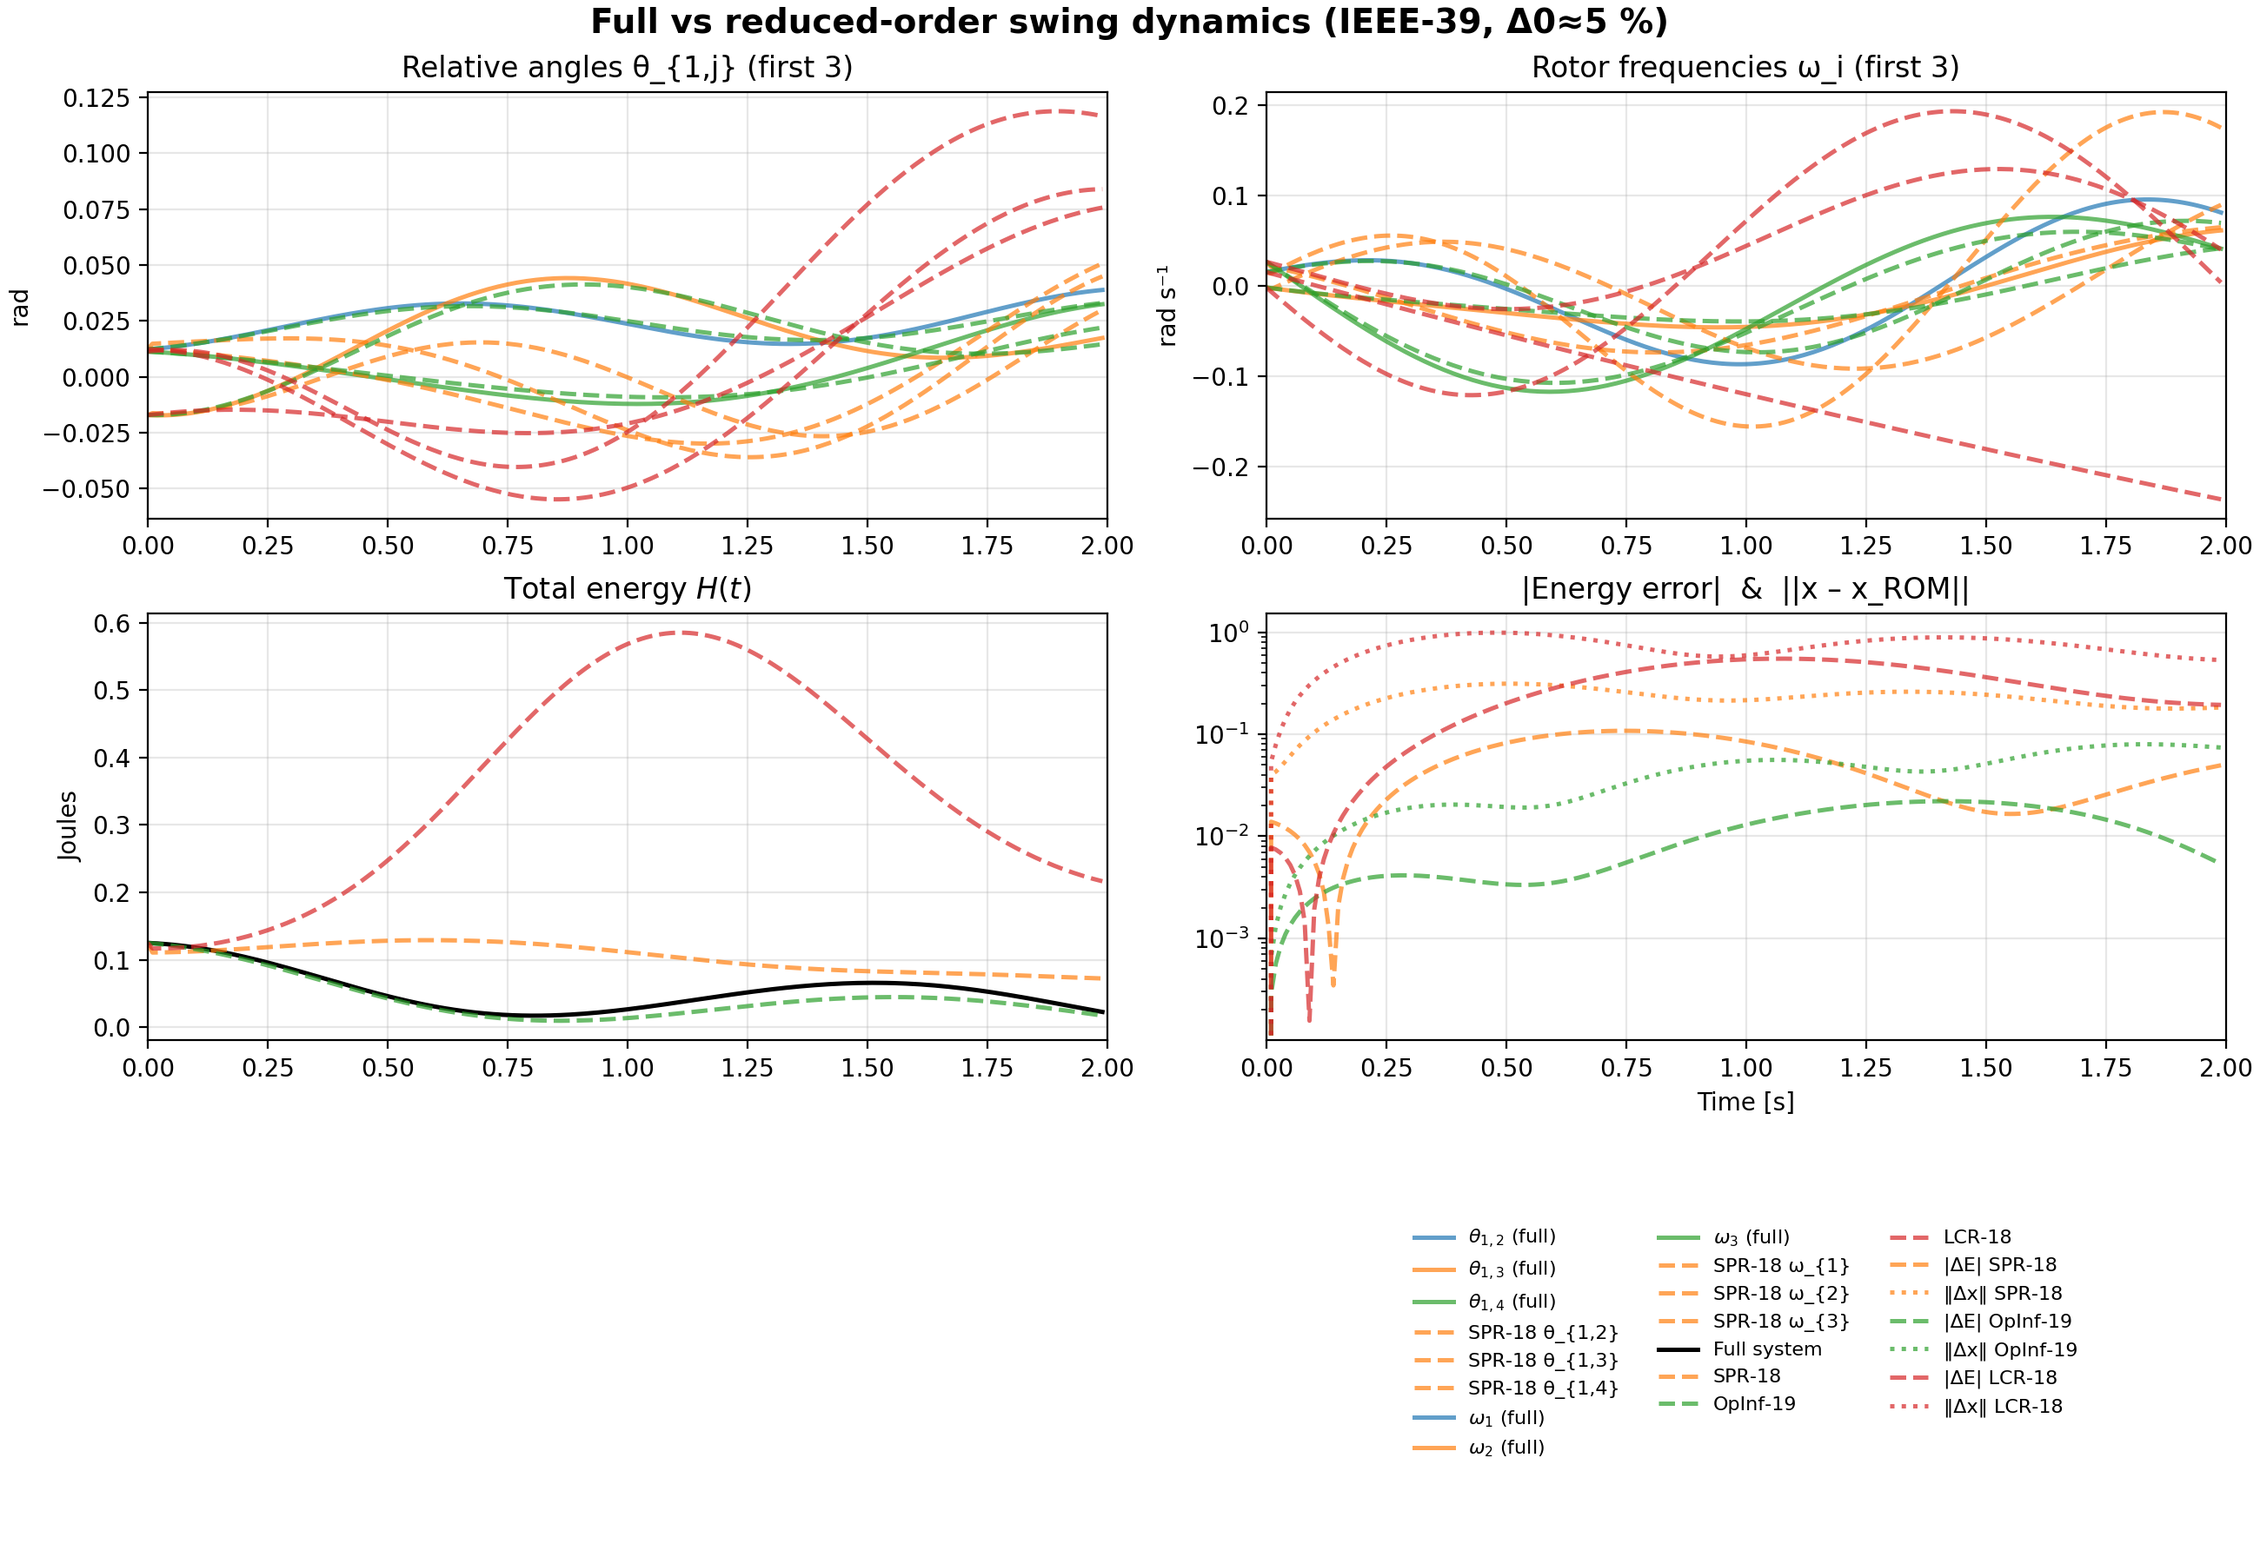
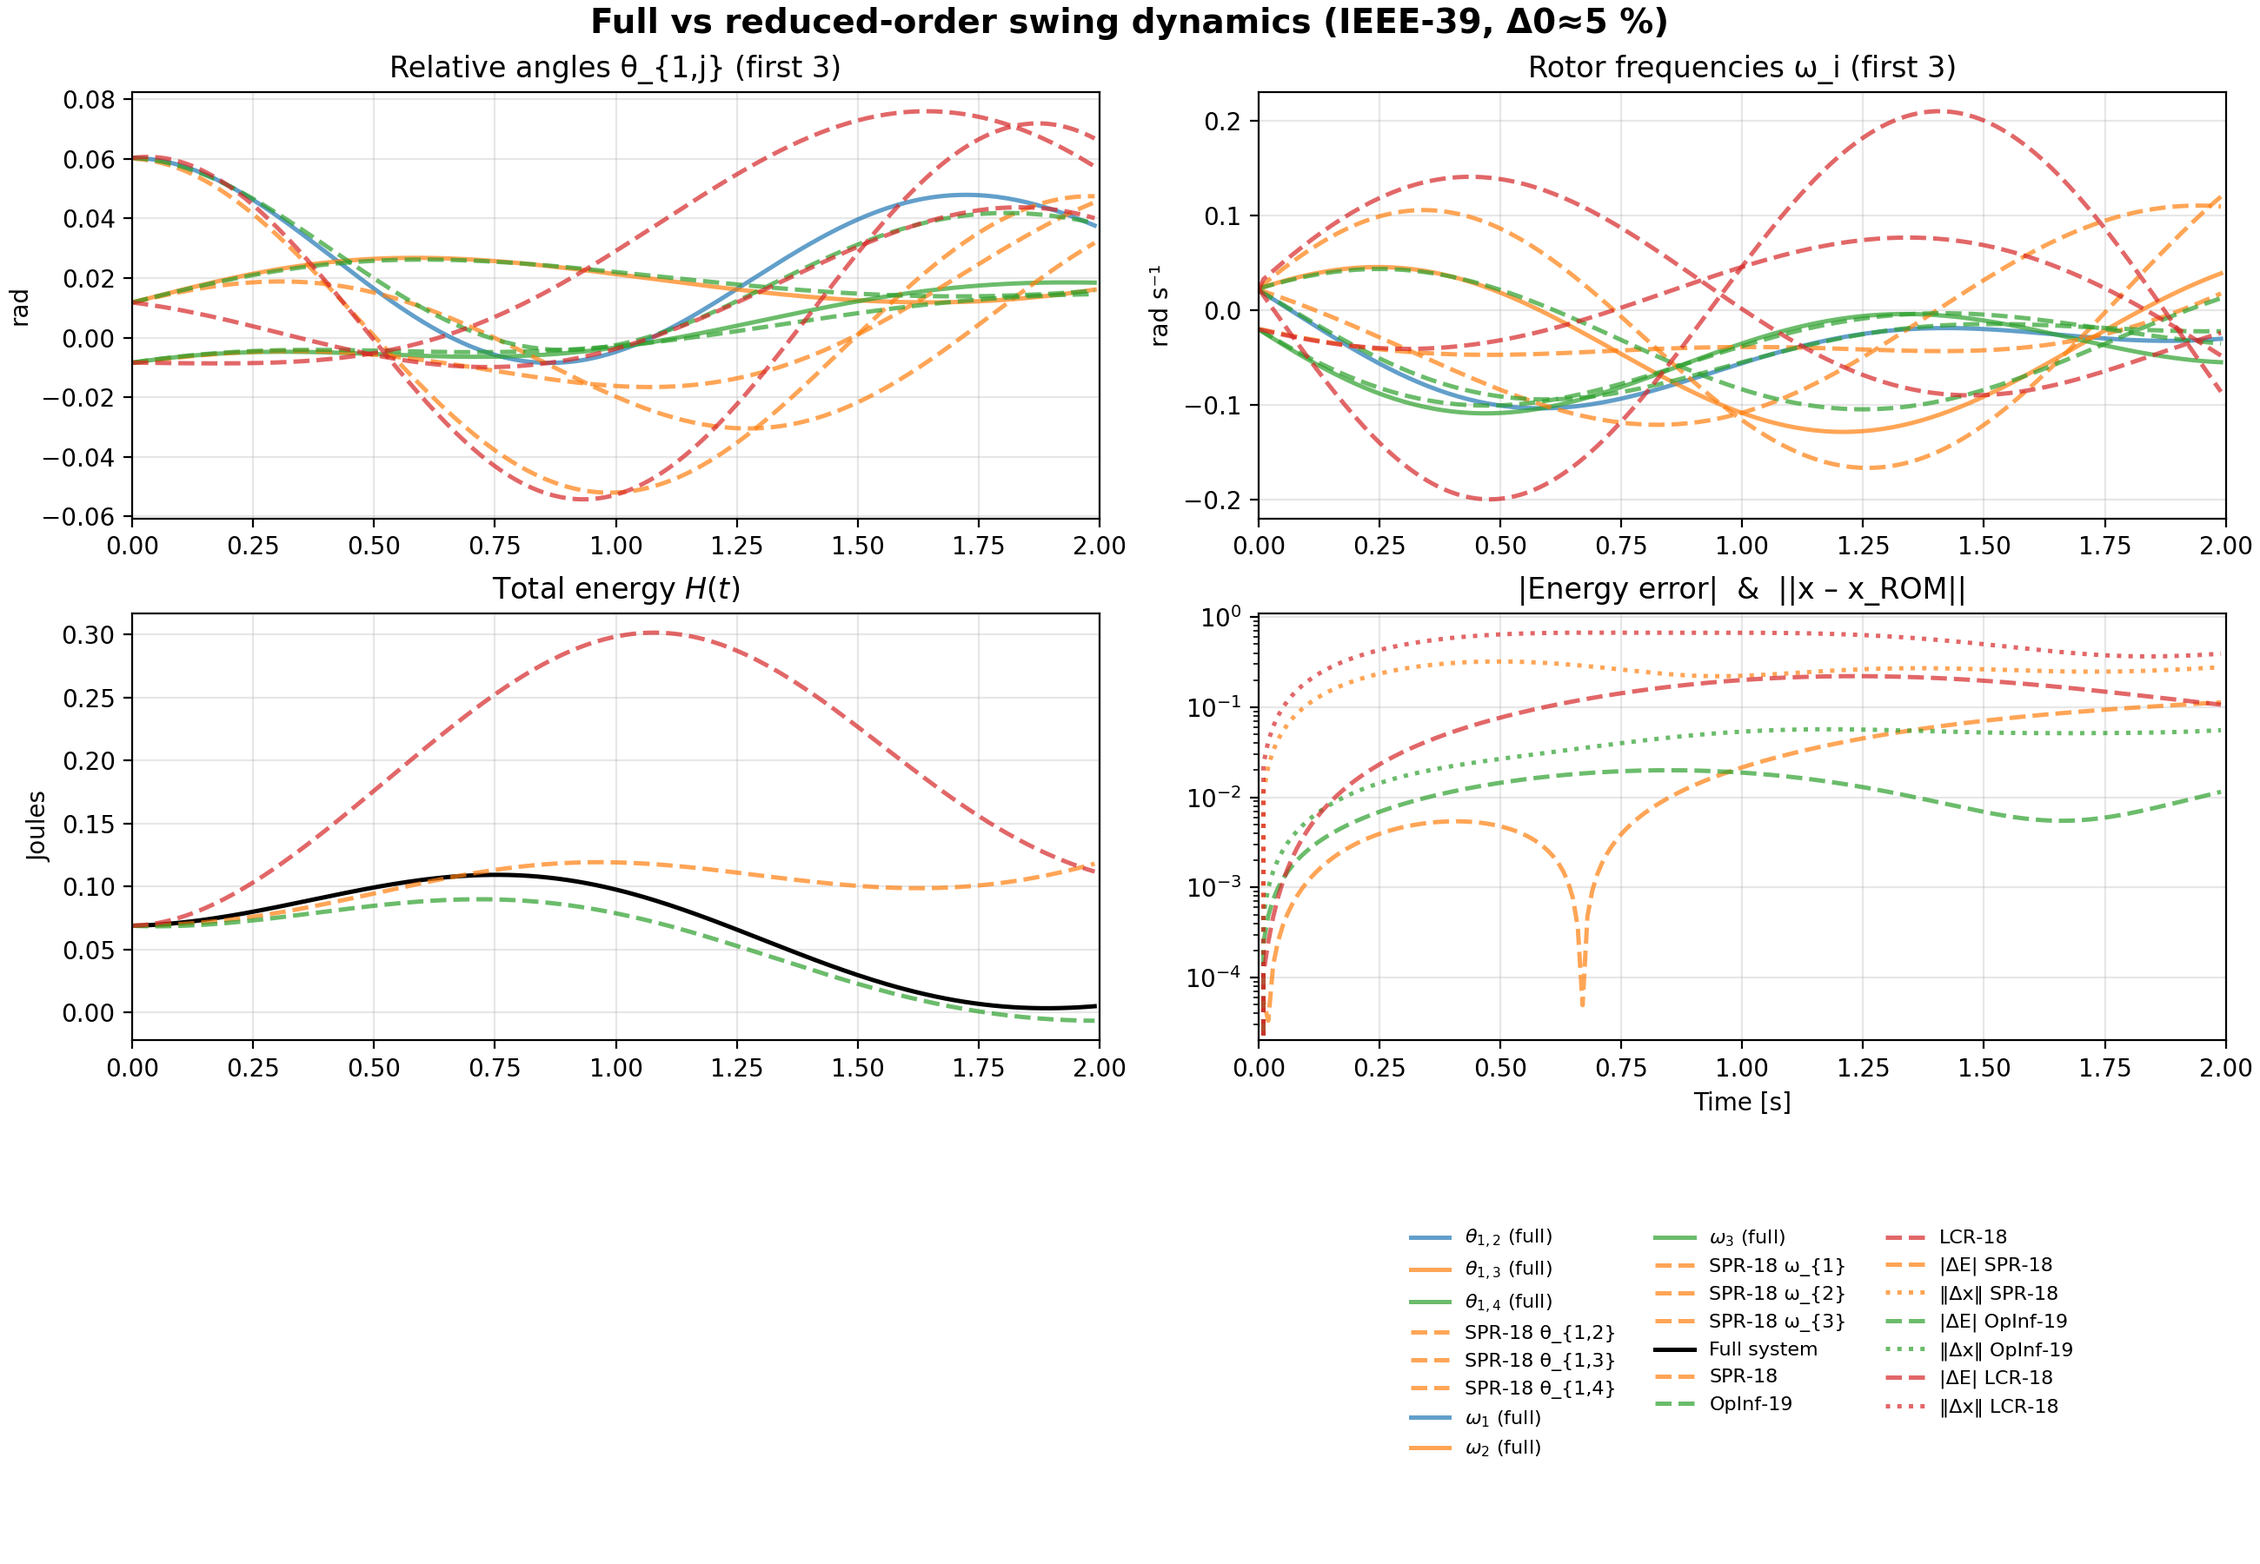
fix

diff --git a/neural_clbf/retain_freq.py b/neural_clbf/retain_freq.py
@@ -668,11 +668,6 @@ def test_trajectory_preservation():
             traj = rollout_rom(reducer, sys, x0_plot.unsqueeze(0), int(T_horizon/dt), dt=dt)
         
         t = np.arange(traj.shape[1]) * dt
-        fig = plot_comparison(sys,
-                            {"SPR‑18": spr, "OpInf‑19": opinf, "LCR‑18": lcr},
-                            x0_plot, T_horizon, dt)
-        fig.savefig("trajectory_comparison.png", dpi=200)
-        print("Saved clearer figure to trajectory_comparison.png")
 
         
         # Plot energy error (if not full system)
@@ -705,7 +700,42 @@ def test_trajectory_preservation():
     plt.tight_layout()
     plt.savefig('full_dimension_trajectories.png', dpi=150)
     print("\nTrajectory plots saved to 'full_dimension_trajectories.png'")
-    
+
+    plt.close()
+    print("\nTrajectory plots saved to 'full_dimension_trajectories.png'")
+
+    # Now create the comparison plots with unique filenames
+    print("\nGenerating comparison visualizations...")
+
+    # 1. Summary plot (2x2 clearer visualization)
+    fig_summary = plot_summary_comparison(sys,
+                        {"SPR-18": spr if 'spr' in locals() else None, 
+                        "OpInf-19": opinf if 'opinf' in locals() else None, 
+                        "LCR-18": lcr if 'lcr' in locals() else None},
+                        x0_plot, T_horizon, dt)
+    fig_summary.savefig("comparison_summary.png", dpi=150, bbox_inches='tight')
+    plt.close(fig_summary)
+    print("Saved summary plot to 'comparison_summary.png'")
+
+    # 2. Detailed comparison plot
+    fig_comp = plot_comparison(sys,
+                        {"SPR-18": spr if 'spr' in locals() else None, 
+                        "OpInf-19": opinf if 'opinf' in locals() else None, 
+                        "LCR-18": lcr if 'lcr' in locals() else None},
+                        x0_plot, T_horizon, dt)
+    fig_comp.savefig("comparison_detailed.png", dpi=200, bbox_inches='tight')
+    plt.close(fig_comp)
+    print("Saved detailed comparison to 'comparison_detailed.png'")
+
+    # 3. Individual method comparison (one row per reducer)
+    fig_individual = plot_individual_comparison(sys,
+                        {"SPR-18": spr if 'spr' in locals() else None, 
+                        "OpInf-19": opinf if 'opinf' in locals() else None, 
+                        "LCR-18": lcr if 'lcr' in locals() else None},
+                        x0_plot, T_horizon, dt)
+    fig_individual.savefig("comparison_individual_methods.png", dpi=150, bbox_inches='tight')
+    plt.close(fig_individual)
+    print("Saved individual method comparison to 'comparison_individual_methods.png'")    
     return results, validation_results
 def verify_energy_function(sys, params):
     """Thoroughly check energy function consistency"""
@@ -856,10 +886,263 @@ def plot_comparison(sys, reducers, x0, T_horizon, dt):
     fig.suptitle("Full vs reduced‑order swing dynamics (IEEE‑39, Δ0≈5 %)",
                  fontsize=14, fontweight="bold")
     return fig
+def plot_comparison_clear(sys, reducers, x0, T_horizon, dt):
+    """Create a clearer comparison plot with separate subplots for each ROM."""
+    
+    # Simulate full system once
+    traj_full = simulate_trajectory(sys, x0, T_horizon, dt)[0]
+    E_full = sys.energy_function(traj_full).cpu().numpy()
+    n_points = traj_full.shape[0]
+    t = np.arange(n_points) * dt
+    
+    # Create figure with subplots for each ROM
+    n_roms = len([r for r in reducers.values() if r is not None])
+    fig = plt.figure(figsize=(16, 4 * n_roms))
+    
+    # Color scheme
+    colors = {
+        'full': 'black',
+        'SPR-18': '#1f77b4',
+        'OpInf-19': '#ff7f0e', 
+        'LCR-18': '#2ca02c'
+    }
+    
+    for idx, (name, reducer) in enumerate(reducers.items()):
+        if reducer is None:
+            continue
+            
+        # Simulate ROM
+        traj_rom = rollout_rom(reducer, sys, x0.unsqueeze(0), n_points-1, dt=dt, method="rk4")[0]
+        E_rom = sys.energy_function(traj_rom).cpu().numpy()
+        
+        # Create subplot row
+        row_idx = idx * 4
+        
+        # 1. Angles comparison
+        ax1 = plt.subplot(n_roms, 4, row_idx + 1)
+        # Plot only first angle for clarity
+        ax1.plot(t, traj_full[:, 0].cpu(), 'k-', label='Full', linewidth=2)
+        ax1.plot(t, traj_rom[:, 0].cpu(), '--', color=colors[name], label=name, linewidth=2)
+        ax1.set_ylabel('θ_{1,2} [rad]')
+        ax1.set_title(f'{name}: First relative angle')
+        ax1.legend()
+        ax1.grid(True, alpha=0.3)
+        
+        # 2. Frequencies comparison
+        ax2 = plt.subplot(n_roms, 4, row_idx + 2)
+        # Plot only first frequency
+        ax2.plot(t, traj_full[:, 9].cpu(), 'k-', label='Full', linewidth=2)
+        ax2.plot(t, traj_rom[:, 9].cpu(), '--', color=colors[name], label=name, linewidth=2)
+        ax2.set_ylabel('ω_1 [rad/s]')
+        ax2.set_title(f'{name}: First frequency')
+        ax2.legend()
+        ax2.grid(True, alpha=0.3)
+        
+        # 3. Energy
+        ax3 = plt.subplot(n_roms, 4, row_idx + 3)
+        ax3.plot(t, E_full, 'k-', label='Full', linewidth=2)
+        ax3.plot(t, E_rom, '--', color=colors[name], label=name, linewidth=2)
+        ax3.set_ylabel('Energy')
+        ax3.set_title(f'{name}: Total energy')
+        ax3.legend()
+        ax3.grid(True, alpha=0.3)
+        
+        # 4. Errors (log scale)
+        ax4 = plt.subplot(n_roms, 4, row_idx + 4)
+        energy_error = np.abs(E_full - E_rom)
+        state_error = (traj_full - traj_rom).norm(dim=1).cpu().numpy()
+        
+        ax4.semilogy(t, energy_error, '-', color=colors[name], label='Energy error', linewidth=2)
+        ax4.semilogy(t, state_error, '--', color=colors[name], label='State error', linewidth=2)
+        ax4.set_ylabel('Error')
+        ax4.set_xlabel('Time [s]')
+        ax4.set_title(f'{name}: Errors')
+        ax4.legend()
+        ax4.grid(True, alpha=0.3)
+        ax4.set_ylim([1e-6, 1e0])
+    
+    plt.suptitle('Trajectory Preservation Test: Full vs Reduced-Order Models', fontsize=16)
+    plt.tight_layout()
+    return fig
 
-# ---------------------------------------------------------------------
-# call it
 
+def plot_summary_comparison(sys, reducers, x0, T_horizon, dt):
+    """Create a summary plot focusing on key differences."""
+    
+    # Simulate full system
+    traj_full = simulate_trajectory(sys, x0, T_horizon, dt)[0]
+    E_full = sys.energy_function(traj_full).cpu().numpy()
+    n_points = traj_full.shape[0]
+    t = np.arange(n_points) * dt
+    
+    fig, axes = plt.subplots(2, 2, figsize=(12, 8))
+    
+    # Color scheme with better distinction
+    colors = {
+        'SPR-18': '#1f77b4',
+        'OpInf-19': '#ff7f0e', 
+        'LCR-18': '#d62728'  # Red for the problematic one
+    }
+    
+    # Store all errors for y-axis scaling
+    all_energy_errors = []
+    all_state_errors = []
+    
+    # Plot 1: State norm evolution
+    ax = axes[0, 0]
+    state_norm_full = traj_full.norm(dim=1).cpu().numpy()
+    ax.plot(t, state_norm_full, 'k-', label='Full system', linewidth=2.5)
+    
+    for name, reducer in reducers.items():
+        if reducer is None:
+            continue
+        traj_rom = rollout_rom(reducer, sys, x0.unsqueeze(0), n_points-1, dt=dt, method="rk4")[0]
+        state_norm_rom = traj_rom.norm(dim=1).cpu().numpy()
+        ax.plot(t, state_norm_rom, '--', color=colors[name], label=name, linewidth=2)
+    
+    ax.set_xlabel('Time [s]')
+    ax.set_ylabel('||x||')
+    ax.set_title('State Norm Evolution')
+    ax.legend()
+    ax.grid(True, alpha=0.3)
+    
+    # Plot 2: Energy conservation
+    ax = axes[0, 1]
+    ax.plot(t, E_full, 'k-', label='Full system', linewidth=2.5)
+    
+    for name, reducer in reducers.items():
+        if reducer is None:
+            continue
+        traj_rom = rollout_rom(reducer, sys, x0.unsqueeze(0), n_points-1, dt=dt, method="rk4")[0]
+        E_rom = sys.energy_function(traj_rom).cpu().numpy()
+        ax.plot(t, E_rom, '--', color=colors[name], label=name, linewidth=2)
+    
+    ax.set_xlabel('Time [s]')
+    ax.set_ylabel('Energy')
+    ax.set_title('Energy Conservation')
+    ax.legend()
+    ax.grid(True, alpha=0.3)
+    
+    # Plot 3: Energy errors (log scale)
+    ax = axes[1, 0]
+    for name, reducer in reducers.items():
+        if reducer is None:
+            continue
+        traj_rom = rollout_rom(reducer, sys, x0.unsqueeze(0), n_points-1, dt=dt, method="rk4")[0]
+        E_rom = sys.energy_function(traj_rom).cpu().numpy()
+        energy_error = np.abs(E_full - E_rom)
+        all_energy_errors.append(energy_error)
+        ax.semilogy(t, energy_error, '-', color=colors[name], label=name, linewidth=2)
+    
+    ax.set_xlabel('Time [s]')
+    ax.set_ylabel('|Energy Error|')
+    ax.set_title('Energy Conservation Error')
+    ax.legend()
+    ax.grid(True, alpha=0.3)
+    if all_energy_errors:
+        ax.set_ylim([1e-6, max([e.max() for e in all_energy_errors]) * 2])
+    
+    # Plot 4: State errors (log scale)
+    ax = axes[1, 1]
+    for name, reducer in reducers.items():
+        if reducer is None:
+            continue
+        traj_rom = rollout_rom(reducer, sys, x0.unsqueeze(0), n_points-1, dt=dt, method="rk4")[0]
+        state_error = (traj_full - traj_rom).norm(dim=1).cpu().numpy()
+        all_state_errors.append(state_error)
+        ax.semilogy(t, state_error, '-', color=colors[name], label=name, linewidth=2)
+    
+    ax.set_xlabel('Time [s]')
+    ax.set_ylabel('||x_{full} - x_{ROM}||')
+    ax.set_title('State Reconstruction Error')
+    ax.legend()
+    ax.grid(True, alpha=0.3)
+    if all_state_errors:
+        ax.set_ylim([1e-6, max([e.max() for e in all_state_errors]) * 2])
+    
+    plt.suptitle('Summary: Reduced-Order Model Performance', fontsize=14)
+    plt.tight_layout()
+    return fig
+def plot_individual_comparison(sys, reducers, x0, T_horizon, dt):
+    """Create a detailed plot with separate rows for each reducer."""
+    
+    # Simulate full system once
+    traj_full = simulate_trajectory(sys, x0, T_horizon, dt)[0]
+    E_full = sys.energy_function(traj_full).cpu().numpy()
+    n_points = traj_full.shape[0]
+    t = np.arange(n_points) * dt
+    
+    # Count active reducers
+    active_reducers = [(name, red) for name, red in reducers.items() if red is not None]
+    n_reducers = len(active_reducers)
+    
+    # Create figure with subplots for each reducer
+    fig, axes = plt.subplots(n_reducers, 4, figsize=(16, 4*n_reducers))
+    if n_reducers == 1:
+        axes = axes.reshape(1, -1)
+    
+    # Color scheme
+    colors = {
+        'SPR-18': '#1f77b4',    # Blue
+        'OpInf-19': '#ff7f0e',  # Orange
+        'LCR-18': '#d62728'     # Red
+    }
+    
+    for idx, (name, reducer) in enumerate(active_reducers):
+        # Simulate ROM
+        traj_rom = rollout_rom(reducer, sys, x0.unsqueeze(0), n_points-1, dt=dt, method="rk4")[0]
+        E_rom = sys.energy_function(traj_rom).cpu().numpy()
+        
+        # 1. Angles comparison
+        ax = axes[idx, 0]
+        # Plot only first angle for clarity
+        ax.plot(t, traj_full[:, 0].cpu(), 'k-', label='Full', linewidth=2)
+        ax.plot(t, traj_rom[:, 0].cpu(), '--', color=colors[name], label=name, linewidth=2)
+        ax.set_ylabel('θ_{1,2} [rad]')
+        ax.set_title(f'{name}: First relative angle')
+        ax.legend()
+        ax.grid(True, alpha=0.3)
+        
+        # 2. Frequencies comparison
+        ax = axes[idx, 1]
+        # Plot only first frequency
+        ax.plot(t, traj_full[:, 9].cpu(), 'k-', label='Full', linewidth=2)
+        ax.plot(t, traj_rom[:, 9].cpu(), '--', color=colors[name], label=name, linewidth=2)
+        ax.set_ylabel('ω_1 [rad/s]')
+        ax.set_title(f'{name}: First frequency')
+        ax.legend()
+        ax.grid(True, alpha=0.3)
+        
+        # 3. Energy
+        ax = axes[idx, 2]
+        ax.plot(t, E_full, 'k-', label='Full', linewidth=2)
+        ax.plot(t, E_rom, '--', color=colors[name], label=name, linewidth=2)
+        ax.set_ylabel('Energy')
+        ax.set_title(f'{name}: Total energy')
+        ax.legend()
+        ax.grid(True, alpha=0.3)
+        
+        # 4. Errors (log scale)
+        ax = axes[idx, 3]
+        energy_error = np.abs(E_full - E_rom)
+        state_error = (traj_full - traj_rom).norm(dim=1).cpu().numpy()
+        
+        ax.semilogy(t, energy_error, '-', color=colors[name], label='Energy error', linewidth=2)
+        ax.semilogy(t, state_error, '--', color=colors[name], label='State error', linewidth=2)
+        ax.set_ylabel('Error')
+        ax.set_xlabel('Time [s]')
+        ax.set_title(f'{name}: Errors')
+        ax.legend()
+        ax.grid(True, alpha=0.3)
+        ax.set_ylim([1e-6, 1e0])
+    
+    # Add labels for the bottom row
+    for i in range(4):
+        axes[-1, i].set_xlabel('Time [s]')
+    
+    plt.suptitle('Detailed Comparison: Full vs Reduced-Order Models', fontsize=16)
+    plt.tight_layout()
+    return fig
 if __name__ == "__main__":
     results, validation_results = test_trajectory_preservation()
     
